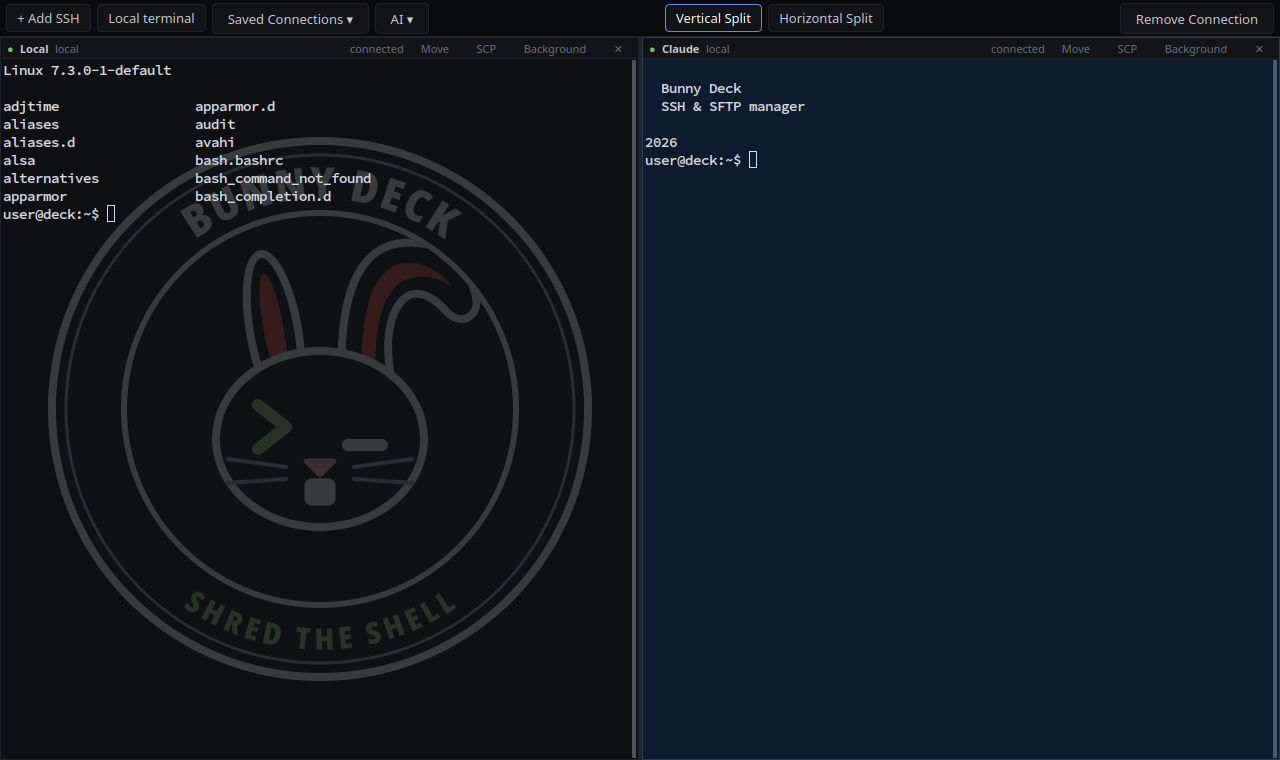
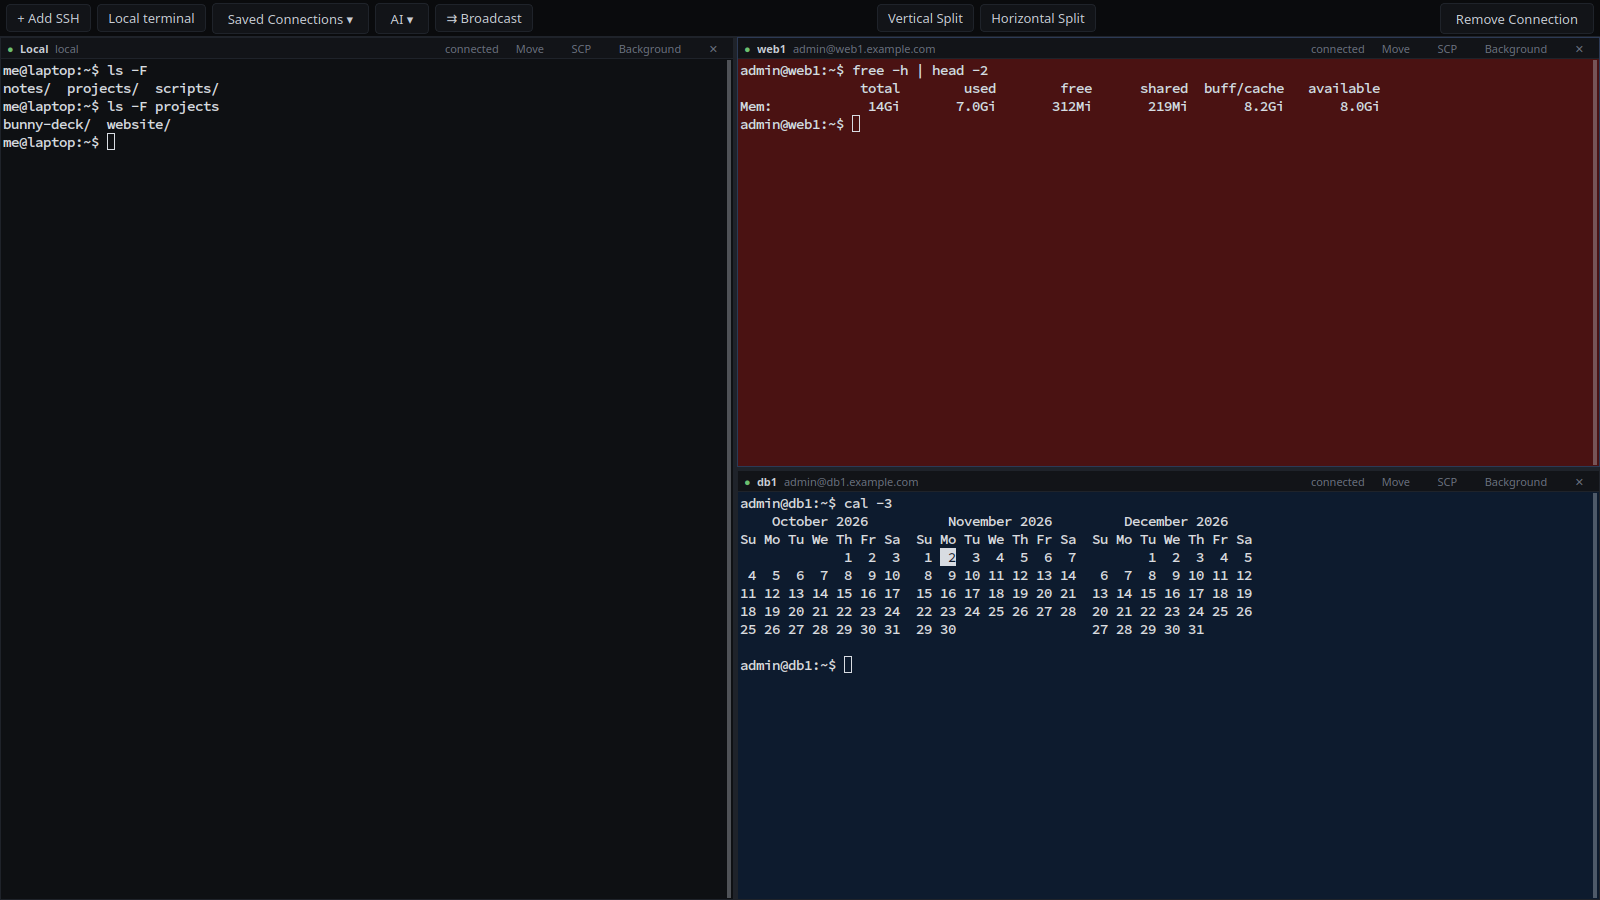
README: new screenshot with three terminals
A local terminal beside two SSH terminals with their own background
colours, without the bunny background that is no longer the default.

diff --git a/README.md b/README.md
@@ -4,7 +4,7 @@ A lightweight, native SSH and SFTP manager for the Linux desktop, built with
 Python 3, Qt 6 (PyQt6), QTermWidget and the system OpenSSH. It is made with
 KDE Plasma in mind and works on other desktops too.
 
-![Bunny Deck with a local terminal and an AI assistant side by side](docs/screenshot.png)
+![Bunny Deck with a local terminal on the left and two SSH terminals with their own background colours on the right](docs/screenshot.png)
 
 ## Features
 
